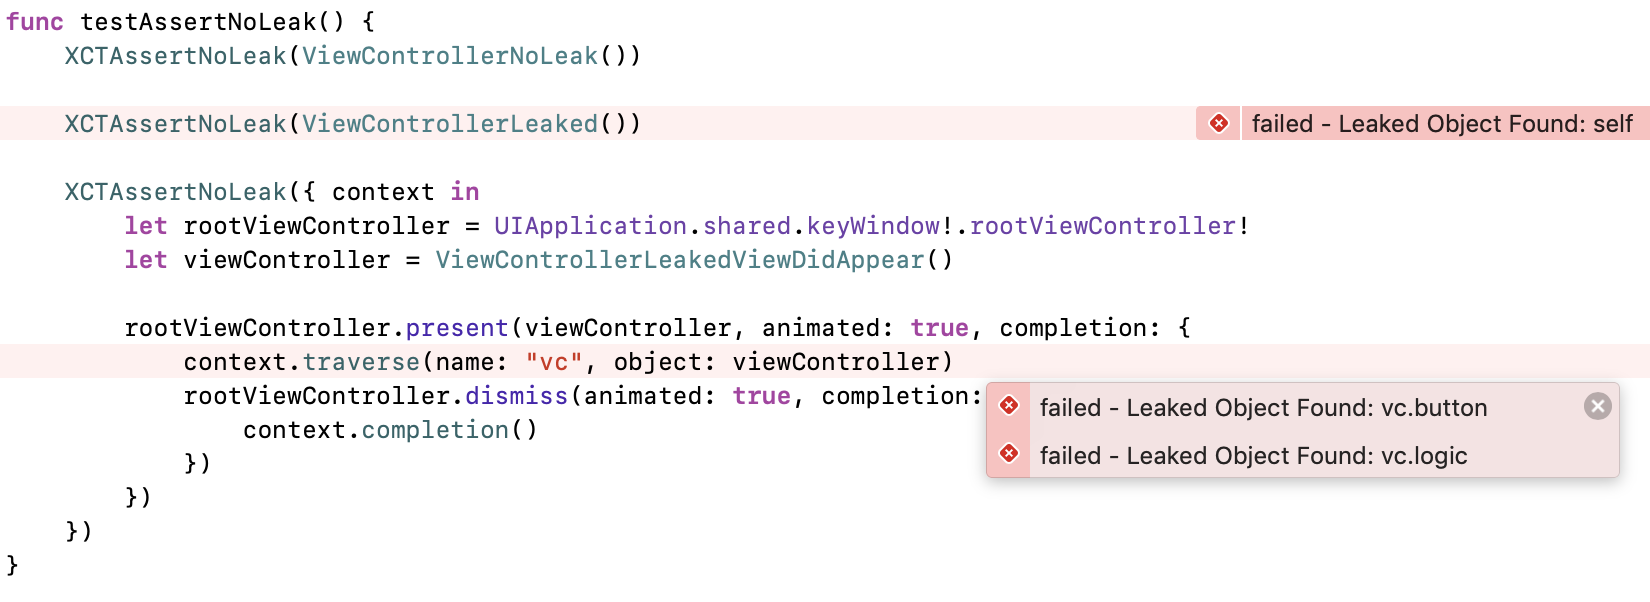
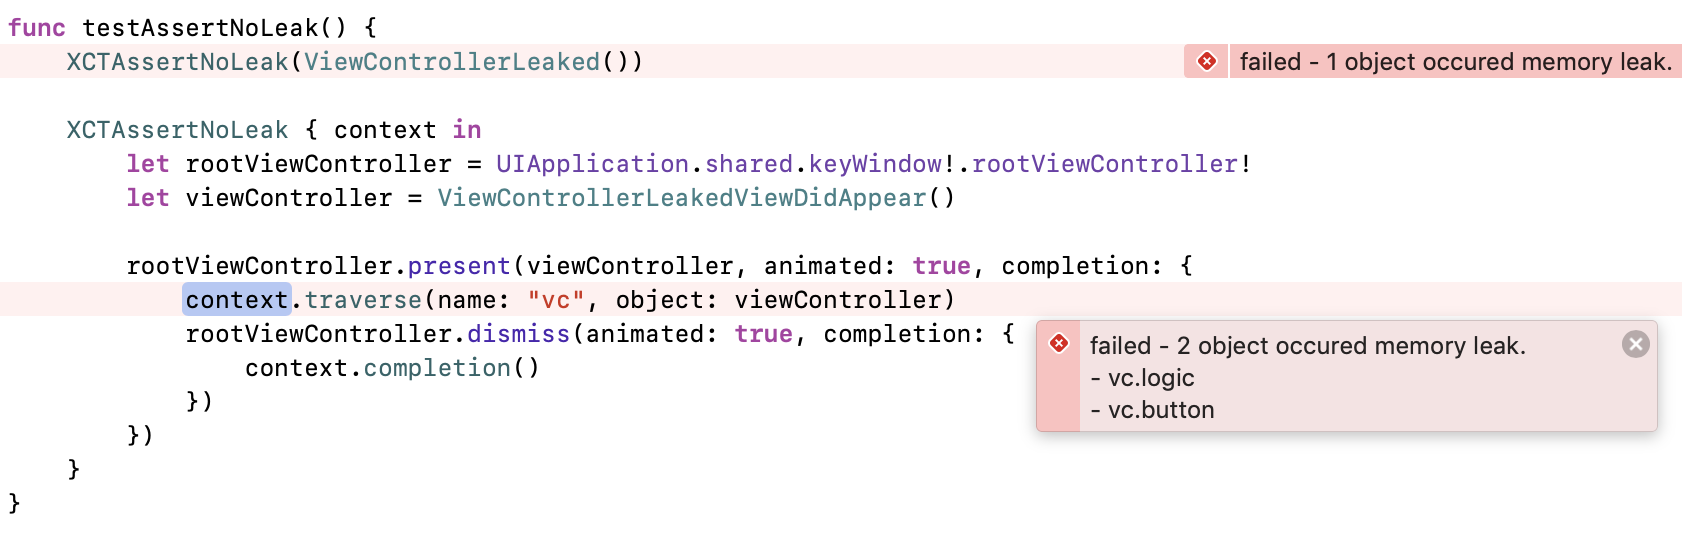
update screenshot

diff --git a/Sources/XCTAssertNoLeak/Core/Assert.swift b/Sources/XCTAssertNoLeak/Core/Assert.swift
@@ -10,7 +10,7 @@ import Foundation
 func assertNoLeak(_ object: @autoclosure () -> AnyObject, assert: @escaping (String, StaticString, UInt) -> (), file: StaticString, line: UInt) {
     let context = AssertNoLeakContextInternal(assert: assert, file: file, line: line)
     context.process { (context) in
-        context.traverse(name: "self", object: object())
+        context.traverse(name: "self", object: object(), file: file, line: line)
         context.completion()
     }
     context.assert()

diff --git a/XCAssertNoLeakSample/XCAssertNoLeakSampleTests/XCAssertNoLeakSampleTests.swift b/XCAssertNoLeakSample/XCAssertNoLeakSampleTests/XCAssertNoLeakSampleTests.swift
@@ -13,7 +13,6 @@ import XCTAssertNoLeak
 class XCAssertNoLeakSampleTests: XCTestCase {
 
     func testAssertNoLeak() {
-        XCTAssertNoLeak(ViewControllerNoLeak())
         XCTAssertNoLeak(ViewControllerLeaked())
         
         XCTAssertNoLeak { context in
